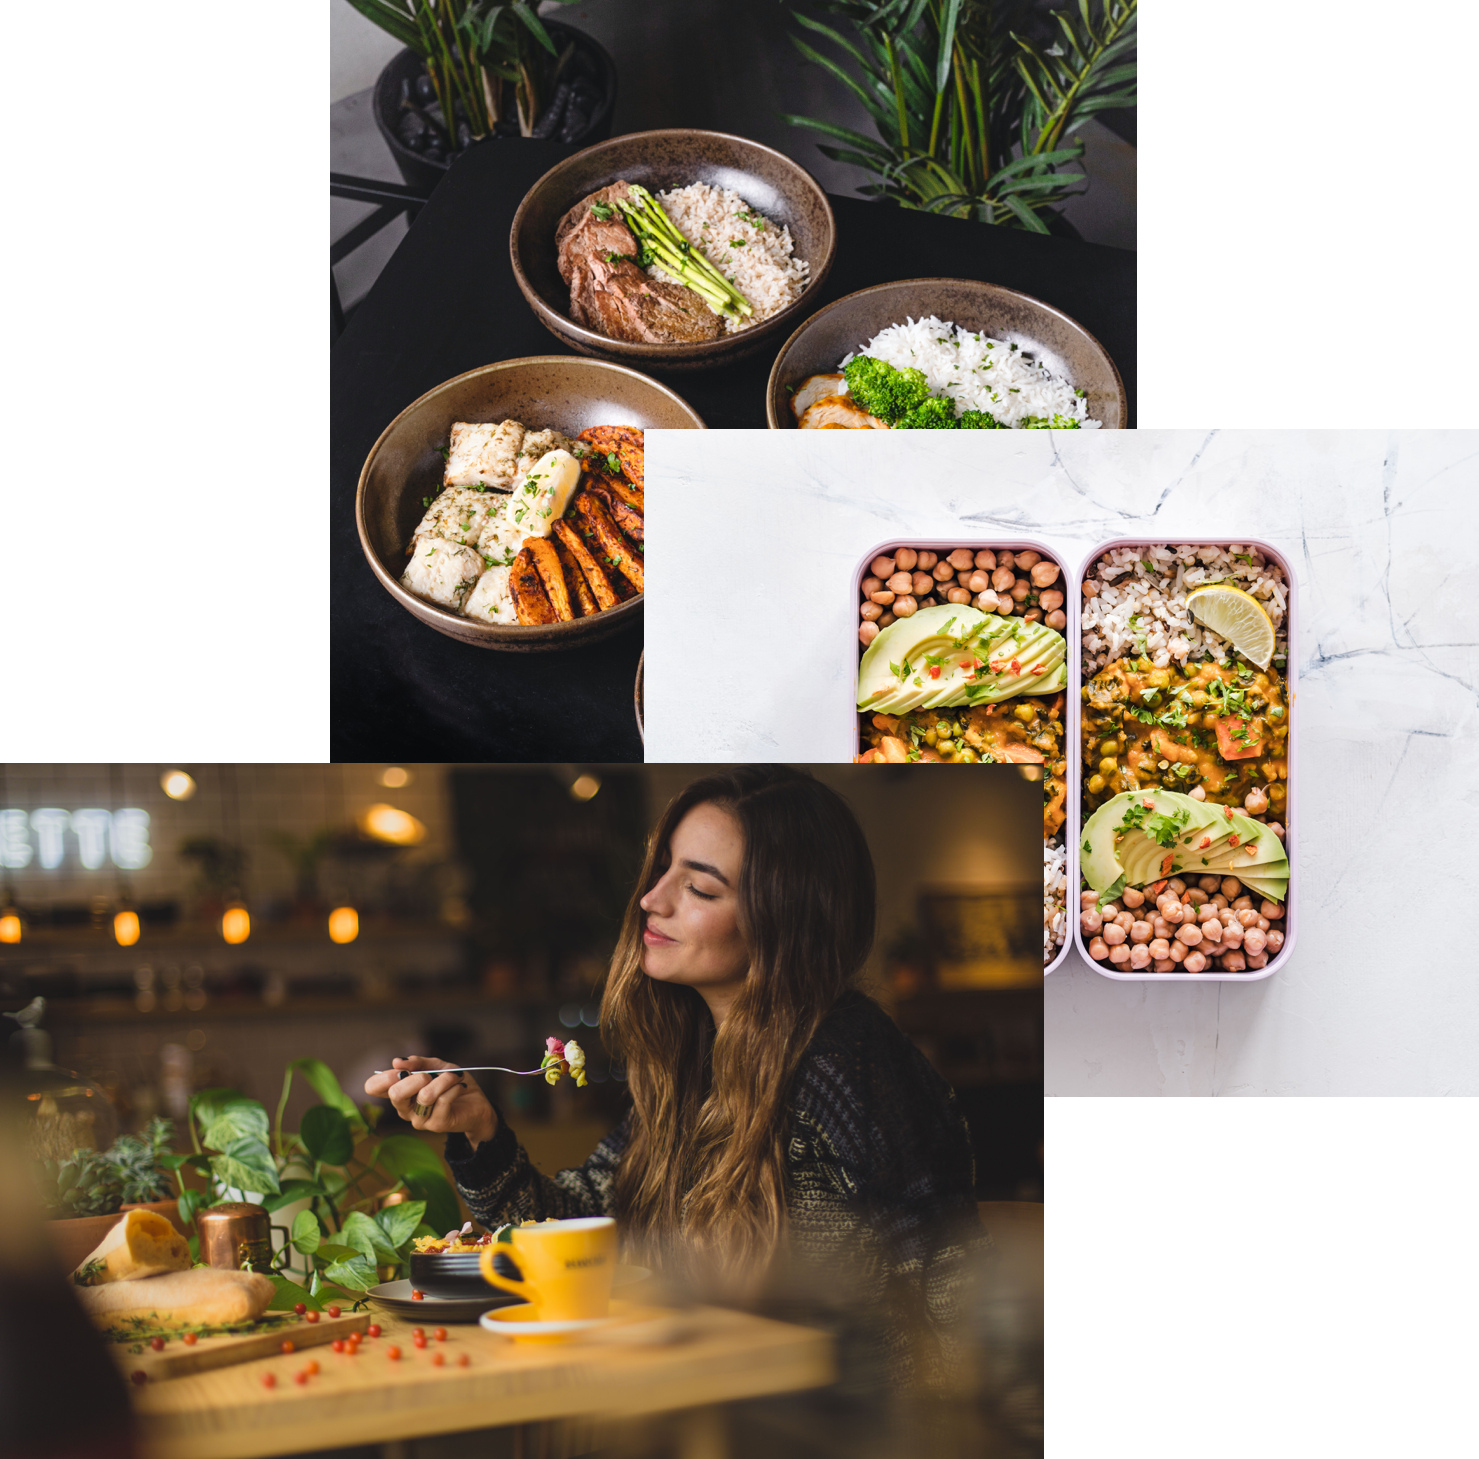
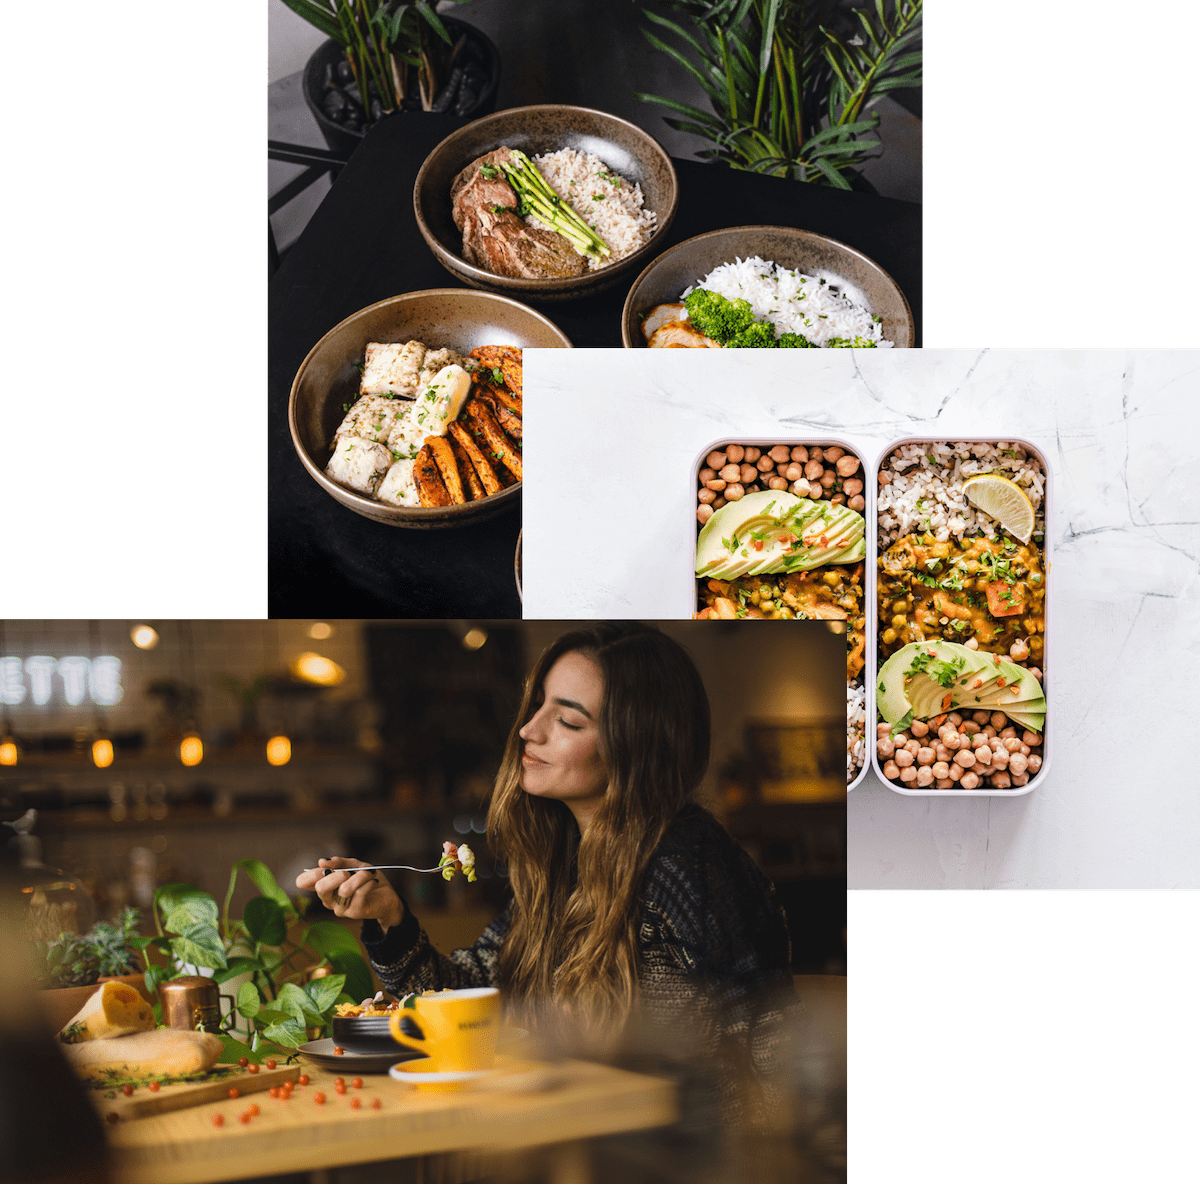
final update

diff --git a/index.html b/index.html
@@ -10,11 +10,11 @@
     <meta name="viewport" content="width=device-width, initial-scale=1.0" />
 
     <!-- Web favicon -->
-    <link rel="icon" href="/img/favicon.png">
+    <link rel="icon" href="/img/favicon.png"/>
     <!-- Apple favicon -->
-    <link rel="apple-touch-icon" href="/img/apple-touch-icon.png">
+    <link rel="apple-touch-icon" href="/img/apple-touch-icon.png"/>
     <!-- Android favicon -->
-    <link rel="manifest" href="manifest.webmanifest">
+    <link rel="manifest" href="manifest.webmanifest"/>
 
     <link rel="preconnect" href="https://fonts.googleapis.com" />
     <link rel="preconnect" href="https://fonts.gstatic.com" crossorigin />
@@ -81,9 +81,19 @@
                     </div>
                 </div>
                 <div class="hero-image-box">
-                    <img src="./img/hero.png"
+                    <picture>
+                        <source srcset="img/hero.webp" type="image/webp" />
+                        <source srcset="img/hero.png" type="image/png" />
+
+                        <img src="./img/hero.png"
                         alt="Woman enjoying food, meals in storage container, and food bowls on a table"
                         class="hero-img" />
+                    </picture>
+
+                    <!-- <img src="./img/hero.png"
+                        alt="Woman enjoying food, meals in storage container, and food bowls on a table"
+                        class="hero-img" /> -->
+        
                 </div>
             </div>
         </section>
